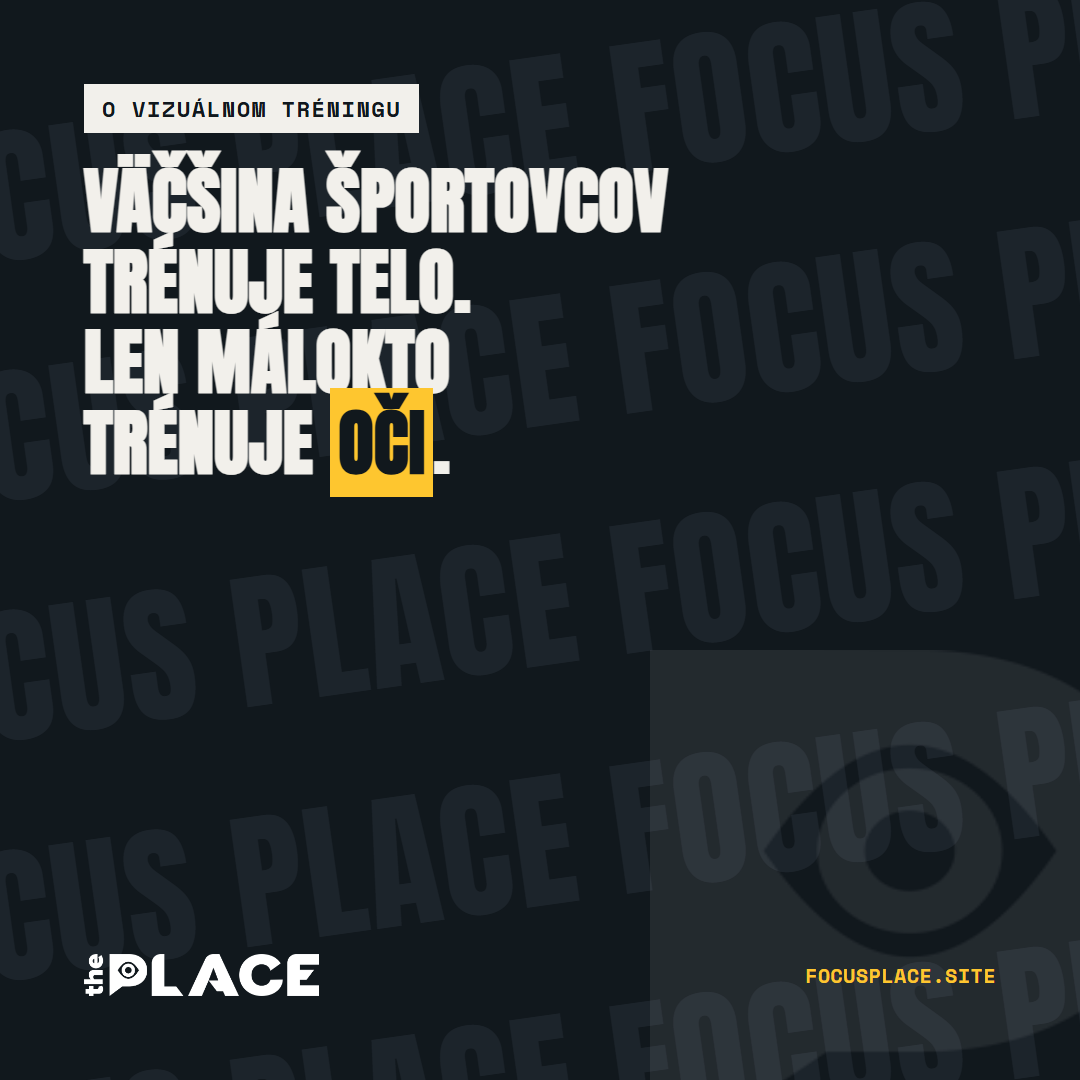
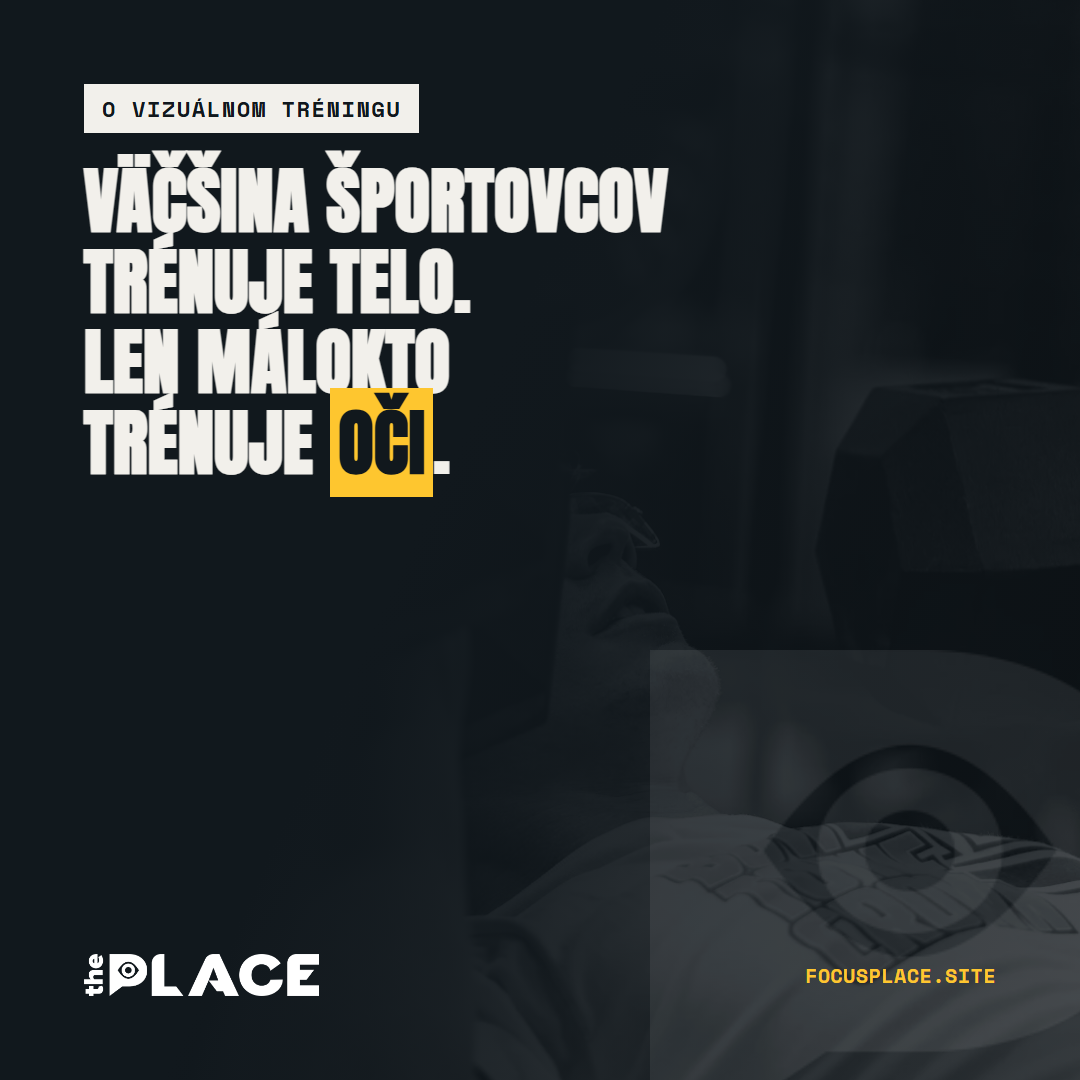
Replace repeating text background with subtle real photos on IG hook post

diff --git a/ig-vizualny-system.html b/ig-vizualny-system.html
@@ -12,12 +12,16 @@
   body{width:1080px; height:1080px; overflow:hidden; font-family:'Inter',sans-serif; background:var(--navy);}
   .poster{position:relative; width:1080px; height:1080px; background:var(--navy); overflow:hidden;}
 
-  .bgtext{
-    position:absolute; inset:0; z-index:0; overflow:hidden;
-    font-family:'Anton'; color:var(--navy-line); font-size:150px; text-transform:uppercase;
-    line-height:1; letter-spacing:2px; opacity:0.45; white-space:nowrap;
+  .bg{position:absolute; inset:0; z-index:0; overflow:hidden;}
+  .bg img{
+    width:100%; height:100%; object-fit:cover; object-position:70% 30%;
+    filter:grayscale(1) brightness(0.55) contrast(1.05);
+    opacity:0.4;
   }
-  .bgtext div{transform:rotate(-8deg); position:absolute; left:-15%; width:140%; text-align:center;}
+  .bg .fade{
+    position:absolute; inset:0;
+    background:linear-gradient(115deg, var(--navy) 0%, var(--navy) 42%, rgba(17,24,29,0.55) 68%, rgba(17,24,29,0.25) 100%);
+  }
 
   .icon{position:absolute; right:-90px; bottom:-90px; width:520px; height:520px; opacity:0.08; z-index:0;}
 
@@ -44,12 +48,9 @@
 </head>
 <body>
 <div class="poster">
-  <div class="bgtext">
-    <div style="top:40px;">FOCUS PLACE FOCUS PLACE</div>
-    <div style="top:280px;">FOCUS PLACE FOCUS PLACE</div>
-    <div style="top:520px;">FOCUS PLACE FOCUS PLACE</div>
-    <div style="top:760px;">FOCUS PLACE FOCUS PLACE</div>
-    <div style="top:1000px;">FOCUS PLACE FOCUS PLACE</div>
+  <div class="bg">
+    <img src="assets/workshop/bg-photo-1.webp" alt="">
+    <div class="fade"></div>
   </div>
   <img class="icon" src="assets/thePlace_icon_white.png" alt="">
   <div class="content">

diff --git a/ig-vizualny-system-2.html b/ig-vizualny-system-2.html
@@ -12,12 +12,16 @@
   body{width:1080px; height:1080px; overflow:hidden; font-family:'Inter',sans-serif; background:var(--navy);}
   .poster{position:relative; width:1080px; height:1080px; background:var(--navy); overflow:hidden;}
 
-  .bgtext{
-    position:absolute; inset:0; z-index:0; overflow:hidden;
-    font-family:'Anton'; color:var(--navy-line); font-size:150px; text-transform:uppercase;
-    line-height:1; letter-spacing:2px; opacity:0.45; white-space:nowrap;
+  .bg{position:absolute; inset:0; z-index:0; overflow:hidden;}
+  .bg img{
+    width:100%; height:100%; object-fit:cover; object-position:60% 35%;
+    filter:grayscale(1) brightness(0.55) contrast(1.05);
+    opacity:0.4;
   }
-  .bgtext div{transform:rotate(-8deg); position:absolute; left:-15%; width:140%; text-align:center;}
+  .bg .fade{
+    position:absolute; inset:0;
+    background:linear-gradient(245deg, var(--navy) 0%, var(--navy) 42%, rgba(17,24,29,0.55) 68%, rgba(17,24,29,0.25) 100%);
+  }
 
   .icon{position:absolute; left:-100px; top:-100px; width:480px; height:480px; opacity:0.08; z-index:0;}
 
@@ -39,12 +43,9 @@
 </head>
 <body>
 <div class="poster">
-  <div class="bgtext">
-    <div style="top:40px;">FOCUS PLACE FOCUS PLACE</div>
-    <div style="top:280px;">FOCUS PLACE FOCUS PLACE</div>
-    <div style="top:520px;">FOCUS PLACE FOCUS PLACE</div>
-    <div style="top:760px;">FOCUS PLACE FOCUS PLACE</div>
-    <div style="top:1000px;">FOCUS PLACE FOCUS PLACE</div>
+  <div class="bg">
+    <img src="assets/workshop/bg-photo-2.webp" alt="">
+    <div class="fade"></div>
   </div>
   <img class="icon" src="assets/thePlace_icon_white.png" alt="">
   <div class="content">
